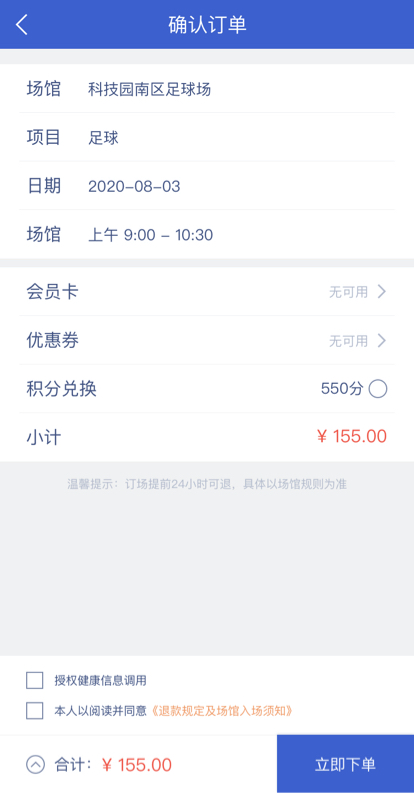
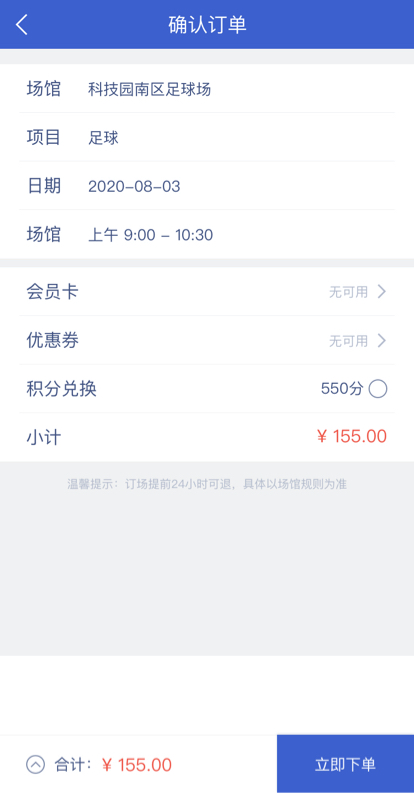
立即下单页面

Changed region(s): [[0.058, 0.8474, 0.7246, 0.9079]]

diff --git a/src/components/Order.vue b/src/components/Order.vue
@@ -2,8 +2,12 @@
   <div class="container div-col" :style="backgroundImg">
     <div class="div1 div-col"/>
     <div class="div2 div-col">
-      <input type="checkbox" v-model="authorize" id="authorize">
-      <input type="checkbox" v-model="protocol" id="protocol">
+      <div class="checkbox">
+        <input type="checkbox" v-model="authorize" id="authorize"><span class="text">授权健康信息调用</span>
+      </div>
+      <div class="checkbox">
+        <input type="checkbox" v-model="protocol" id="protocol"><span class="text">本人已阅读并同意《退款规定及场馆入场须知》</span>
+      </div>
     </div>
     <div class="div3 div-col">
       <div class="price"/>
@@ -28,7 +32,7 @@ export default {
   },
   methods: {
     clickPay () {
-      console.log('支付成功')
+      console.log(this.authorize, this.protocol)
     }
   }
 }
@@ -37,16 +41,37 @@ export default {
 <style scoped>
 .container{
   height: 792px;
+  font-size: 20px;
+  color: #405080;
+}
+.text{
+  font-size: 16px;
 }
 .div1{
   height: 660px;
 }
 .div2{
-  height: 70px;
+  height: 60px;
+  margin-top: 10px;
+  display: flex;
+  flex-direction: column;
+  align-items: flex-start;
+}
+.checkbox{
+  height: 30px;
+  margin-left: 10px;
 }
 .div3{
   height: 62px;
   display: flex;
+}
+.price{
+  height: 62px;
+  width: 270px;
+}
+.pay{
+  height: 62px;
+  width: 144px;
 }
 .div-col{
 }
